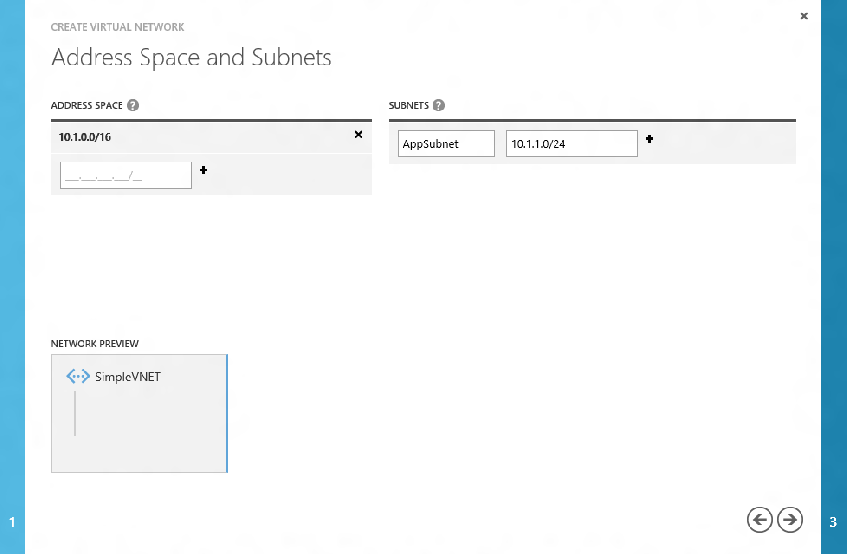
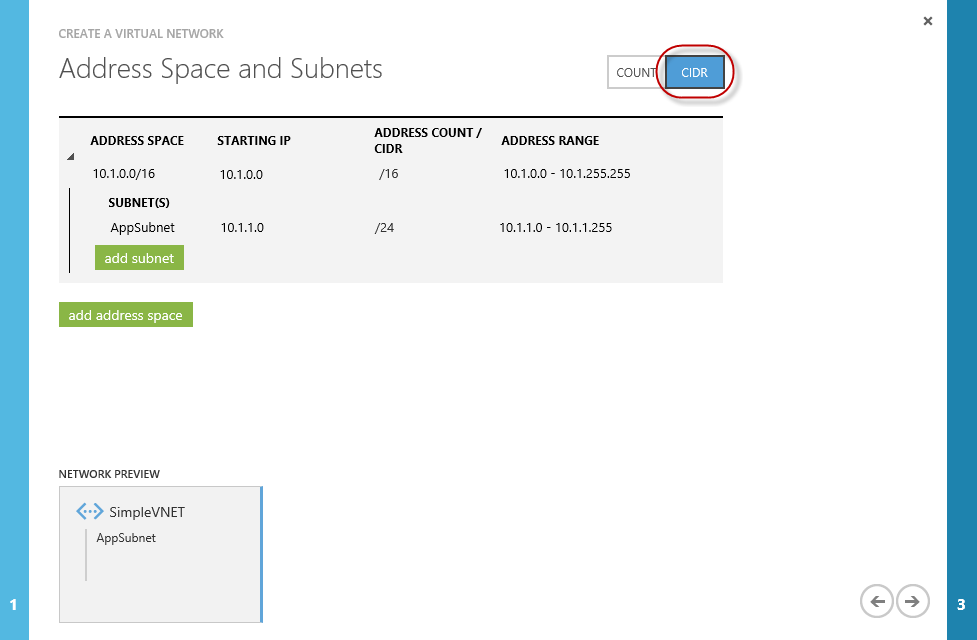
Updated to IaaS Global Availability

diff --git a/Demo.md b/Demo.md
@@ -25,9 +25,9 @@ In this demonstration you will walk through the process of deploying a domain co
 
 In order to execute this demo you need to set up your environment.
 
-1. Download, Install and Configure the Windows Azure PowerShell cmdlets. Instructions on how to configuration the cmdlets with your subscription can be found here: http://msdn.microsoft.com/en-us/library/windowsazure/jj554332.aspx
+1. Download, install and configure the Windows Azure PowerShell cmdlets. Instructions on how to configuration the cmdlets with your subscription can be found here: http://msdn.microsoft.com/en-us/library/windowsazure/jj554332.aspx
 
-1. Download and install the latest node.js library from: htt://node.js. 
+1. Download and install the latest node.js library from: http://nodejs.org 
 
 1. Install the node.js command line tools for Windows Azure by running the following command at a command prompt:
 
@@ -35,34 +35,41 @@ In order to execute this demo you need to set up your environment.
 	npm install azure-cli -g
 	````
 
-1. Modify the Config.Azure.XML for your Windows Azure Subscription. The following values are needed:
-
+1. Modify the Config.Azure.xml located in **Source** folder for your Windows Azure Subscription. The following values are needed:
 	- Target Storage Account Name, Container and Key where the demo VHDs will be copied to. 
-		- The Storage Account Should Be in West US to allow the VHDs to copy in a timely manner.
+		- The Storage Account should be in West US to allow the VHDs to copy in a timely manner.
 	- Subscription Name - value can be retrieved from PowerShell by running **Get-AzureSubscription | select SubscriptionName**.
-   - Unique name for the Cloud Service container that will be used when creating the domain controller in the PowerShell Demo.
-   - Unique name for the Cloud Service container that will be used when creating domain joined member servers using the PowerShell demo (must be different than the DC cloud service).
+	- Unique name for the Cloud Service container that will be used when creating the domain controller in the PowerShell Demo (does not need to be pre-created).	- Unique name for the Cloud Service container that will be used when creating domain joined member servers using the PowerShell demo (does not need to be pre-created and must be different than the DC cloud service).
 
-1. Run the **Setup-1.Azure.cmd** script to copy the prepared VHDs to your storage account (the storage account must be in West US).
+1. If you have not used Windows Azure PowerShell before you need to download a publish settings file. To do this, run the following script. Sign in to the Windows Azure Management Portal, and then follow the instructions to download your Windows Azure publishing settings. Use your browser to save the file as a .publishsettings file to your local computer. Take a note of the location of the file.
 
-1.  Run the **Setup-2.Azure.cmd** script to create the OS disk entry for the VM you will use to create AD.
+	````PowerShell
+	Get-AzurePublishSettingsFile
+	````
 
-> **Note:** In the script examples do not leave the [ ] brackets when replacing the tokens with your own values.
+1. Then replace the placeholder with your publish-setting file’s path and execute this script.
+
+	````PowerShell
+	Import-AzurePublishSettingsFile '[YOUR-PUBLISH-SETTINGS-PATH]'   
+	````
+
+1. Run the **Setup-1.Azure.cmd** script located in **Source** folder as Administrator to copy the prepared VHDs to your storage account (the storage account must be in West US).
+
+1.  Run the **Setup-2.Azure.cmd** script located in **Source** folder as Administrator to create the OS disk entry for the virtual machine you will use to create AD.
+
+	> **Note:** In the script examples do not leave the [ ] brackets when replacing the tokens with your own values.
 
 
 <a name="Demo" />
 ## Demo ##
 
-1. Configure the demo virtual network that the demonstration virtual machines will be deployed to. 
+1. Configure the demo virtual network that the demo virtual machines will be deployed to. 
 
-1. Create an affinity group for your virtual network in the region where your cloud services will be hosted.
-			![create-affinity-group](Images/create-affinity-group.png?raw=true)
-
-1. Create a simple virtual network and specify the previously created affinity group along with a single subnet network configuration.
+1. Create a simple virtual network with an affinity group for it in the region where your cloud services will be hosted and specify the affinity group along with a single subnet network configuration.
 
 	![simple-vnet](Images/simple-vnet.png?raw=true)
 
-1. Set the address space to 10.1.0.0/16 and add a subnet called AppSubnet with a range of 10.1.1.0/24.
+1. At the top right corner, select the **CIDR** option. Then set the Address Space Starting IP value to _10.1.0.0_ and its Address CIDR to _/16_. Finally, add a subnet named _AppSubnet_ with a Starting IP of _10.1.1.0_ and an Address CIDR of _/24_.
 
 	![simple-vnet-2](Images/simple-vnet-2.png?raw=true)
 
@@ -72,10 +79,11 @@ In order to execute this demo you need to set up your environment.
 
 <a name="segment1" />
 
-1. Run powershell_ise and and run the following script. The script will provision a virtual machine from the disk that was copied over earlier. The disk already has the Active Directory role provisioned and a forest created. 
+1. Run powershell_ise and and run the following script. Make sure to replace the placeholder with the path to **Config.Azure.xml** in **Source** folder. The script will provision a virtual machine from the disk that was copied over earlier. The disk already has the Active Directory role provisioned and a forest created.
 
 	````PowerShell
-	# Create VMs	
+	# Create VMs
+	[xml]$xml = Get-Content '[AZURE-CONFIGURATION-FILE-PATH]'
 	$addcvm = New-AzureVMConfig -Name 'ad-dc' -InstanceSize Small -DiskName 'ad-dcosdisk' |
           	Set-AzureOSDisk 'ReadOnly' |
           	Set-AzureSubnet 'AppSubnet' | 
@@ -87,39 +95,46 @@ In order to execute this demo you need to set up your environment.
 	
 	> **Speaking Point:** The script above specifies the subnet and virtual network for the virtual machine to boot up in. Since this VM will also be a domain controller you are setting the OS disk cache settings to be read only to reduce the risk of data corruption.
 
-1. Once the virtual machine is booted RDP in using administrator@fabrikam.com as the login and pass@word1 as the password.
+1. Once the virtual machine is booted RDP in using **administrator@fabrikam.com** as the login and **pass@word1** as the password.
 
-1. From a command line run ipconfig /all
+1. From a command line run **ipconfig /all**.
 
-1. Note the DHCP lease expiration to demonstrate that it is for all intents and purposes a static IP address. Also, save the IP address because you will now use it to configure a member server.
+1. Note the DHCP lease expiration to demonstrate that it is for all intents and purposes a static IP address. Also, save the IP address because you will now use it to configure a member server. Close the RDP.
 
-1. Paste in the following script to create a member server joined VM. Update the $dcip variable to use the IP address of the domain controller before running.
+1. In the Windows PowerShell ISE window run the following PowerShell command to retrieve available image names. You will need to insert one of these image names in the next script.
 
-````PowerShell
-$dcip = '[IP ADDRESS OF DOMAIN CONTROLLER]'
+	````PowerShell
+	Get-AzureVMImage | ft imagename
+	````
 
-$subnet = 'AppSubnet'
+1. Paste in the following script to create a member server joined VM. Update the $dcip variable to use the IP address of the domain controller, the Config.Azure.xml file path for the $xml variable and the $image variable with a Windows Server image name before running.
 
-$ou = 'OU=AzureVMs,DC=fabrikam,DC=com'
+	````PowerShell
+	$dcip = '[IP ADDRESS OF DOMAIN CONTROLLER]'
+	[xml]$xml = Get-Content '[AZURE-CONFIGURATION-FILE-PATH]'
+	$image = 'a699494373c04fc0bc8f2bb1389d6106__Windows-Server-2012-Datacenter-201302.01-en.us-30GB.vhd'
 
-$dom = 'fabrikam'
-$domjoin = 'fabrikam.com'
-$domuser = 'administrator'
-$image = 'MSFT__Windows-Server-2012-Datacenter-201208.01-en.us-30GB.vhd'
+	$subnet = 'AppSubnet'
+
+	$ou = 'OU=AzureVMs,DC=fabrikam,DC=com'
+
+	$dom = 'fabrikam'
+	$pass = 'pass@word1'
+	$domjoin = 'fabrikam.com'
+	$domuser = 'administrator'
+
+	$domVM = New-AzureVMConfig -Name 'ad-ms1' -InstanceSize Small -ImageName $image |      
+		
+			Add-AzureProvisioningConfig -WindowsDomain -JoinDomain $domjoin -Domain $dom -DomainPassword $pass -Password $pass -DomainUserName $domuser -MachineObjectOU $ou |
+						 Set-AzureSubnet -SubnetNames $subnet
 
 
-$domVM = New-AzureVMConfig -Name 'ad-ms1' -InstanceSize Small -ImageName $image |      
-	
-		Add-AzureProvisioningConfig -WindowsDomain -JoinDomain $domjoin -Domain $dom -DomainPassword $pass -Password $pass -DomainUserName $domuser -MachineObjectOU $ou |
-                Set-AzureSubnet -SubnetNames $subnet
 
+	$dns = New-AzureDns -Name 'ad-dc' -IPAddress $dcip
+		  
+	New-AzureVM -ServiceName $xml.configuration.cloudServiceName2 -AffinityGroup 'MyVNETAG' -VNetName 'SimpleVNET' -DnsSettings $dns -VMs $domVM
 
+	````
 
-$dns = New-AzureDns -Name 'ad-dc' -IPAddress $dcip
-     
-New-AzureVM -ServiceName $xml.configuration.cloudServiceName2 -AffinityGroup 'MyVNETAG' -VNetName 'SimpleVNET' -DnsSettings $dns -VMs $domVM -DNSSettings $dns
-
-````
-
-> **Speaking Point:** The PowerShell script above creates a new Windows Server that is domain joined at boot time. The computer account will be created in the AzureVMs Organizational Unit. By specifying the IP address of the domain controller in the DNS Settings the member server will automatically be configured to communicate to AD. 
+	> **Speaking Point:** The PowerShell script above creates a new Windows Server that is domain joined at boot time. The computer account will be created in the AzureVMs Organizational Unit. By specifying the IP address of the domain controller in the DNS Settings the member server will automatically be configured to communicate to AD. 
 
